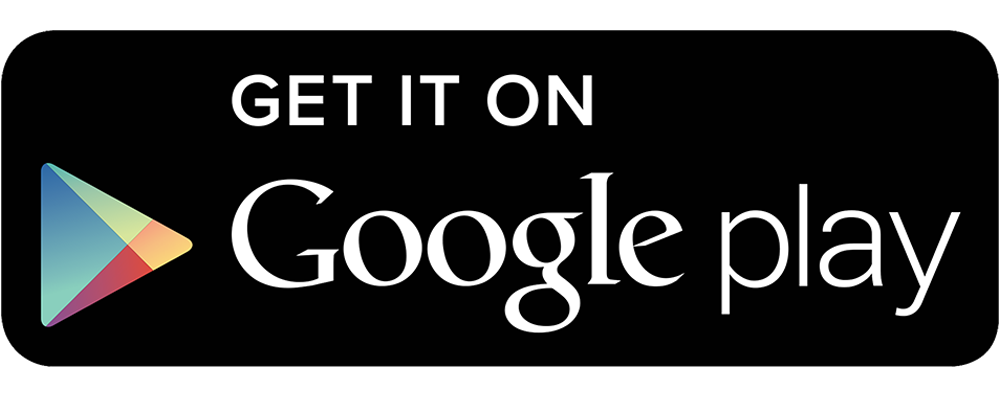
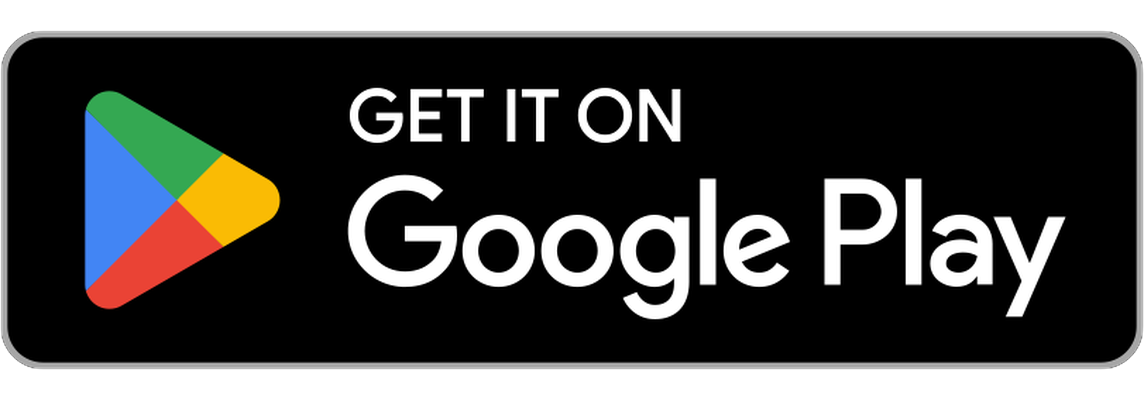
fix

Changed region(s): [[0.0, 0.06, 1.0, 0.93], [0.217, 0.18, 0.62, 0.36]]

diff --git a/src/components/Home/HeroArea.tsx b/src/components/Home/HeroArea.tsx
@@ -15,7 +15,7 @@ const DOWNLOAD_URL = "https://kazar.africa";
 
 const HeroArea: React.FC = () => {
 	return (
-		<section className="relative min-h-[calc(100dvh-80px)] pt-20 md:pt-10 lg:pt-0 flex items-center pb-12 overflow-hidden bg-gradient-to-br from-white via-blue-50/60 to-white dark:from-graydark dark:via-[#1a2535] dark:to-graydark">
+		<section className="relative min-h-[calc(100dvh-4rem)] pt-24 sm:pt-28 lg:pt-24 flex items-center pb-12 overflow-hidden bg-gradient-to-br from-white via-blue-50/60 to-white dark:from-graydark dark:via-[#1a2535] dark:to-graydark">
 			{/* Grid lines */}
 			<div
 				aria-hidden="true"
@@ -89,49 +89,55 @@ const HeroArea: React.FC = () => {
 						</div>
 
 						{/* App download links */}
-						<div className="mt-8 flex flex-col gap-5">
-							<div className="flex flex-wrap items-center justify-center lg:justify-start gap-3 sm:gap-4">
-								<a
-									href={DOWNLOAD_URL}
-									target="_blank"
-									rel="noopener noreferrer"
-									aria-label="Download on the App Store"
-									className="transition-transform duration-200 hover:scale-105"
-								>
-									<Image
-										src="/appstore.webp"
-										alt="Download on the App Store"
-										width={140}
-										height={42}
-										className="h-[42px] w-auto"
-									/>
-								</a>
-								<a
-									href={DOWNLOAD_URL}
-									target="_blank"
-									rel="noopener noreferrer"
-									aria-label="Get it on Google Play"
-									className="transition-transform duration-200 hover:scale-105"
-								>
-									<Image
-										src="/googleplay.png"
-										alt="Get it on Google Play"
-										width={140}
-										height={42}
-										className="h-[42px] w-auto"
-									/>
-								</a>
+						<div className="mt-8 flex flex-col gap-4">
+							{/* Badges + Open Web App: stacked on sm/md, one line on lg */}
+							<div className="flex flex-col lg:flex-row lg:items-center gap-4">
+								<div className="flex items-center justify-center lg:justify-start gap-3 sm:gap-4">
+									<a
+										href={DOWNLOAD_URL}
+										target="_blank"
+										rel="noopener noreferrer"
+										aria-label="Download on the App Store"
+										className="flex h-[48px] w-[160px] sm:h-[52px] sm:w-[174px] md:h-[56px] md:w-[188px] lg:h-[58px] lg:w-[194px] items-center justify-center transition-transform duration-200 hover:scale-105 flex-shrink-0"
+									>
+										<Image
+											src="/appstore.png"
+											alt="Download on the App Store"
+											width={194}
+											height={58}
+											className="h-full w-full object-contain"
+										/>
+									</a>
+									<a
+										href={DOWNLOAD_URL}
+										target="_blank"
+										rel="noopener noreferrer"
+										aria-label="Get it on Google Play"
+										className="flex h-[48px] w-[160px] sm:h-[52px] sm:w-[174px] md:h-[56px] md:w-[188px] lg:h-[58px] lg:w-[194px] items-center justify-center transition-transform duration-200 hover:scale-105 flex-shrink-0"
+									>
+										<Image
+											src="/googleplay.png"
+											alt="Get it on Google Play"
+											width={194}
+											height={58}
+											className="h-full w-full object-contain"
+										/>
+									</a>
+								</div>
 
-								<span className="hidden sm:block h-8 w-px bg-bodydark1/40 dark:bg-bodydark/20" />
+								{/* Divider - only shown when inline (lg) */}
+								<span className="hidden lg:block h-8 w-px bg-bodydark1/40 dark:bg-bodydark/20" />
 
-								<a
-									href={DOWNLOAD_URL}
-									target="_blank"
-									rel="noopener noreferrer"
-									className="text-sm sm:text-base font-semibold text-graydark dark:text-white underline decoration-meta-5 decoration-2 underline-offset-4 transition-colors hover:text-meta-5"
-								>
-									Open Web App
-								</a>
+								<div className="flex justify-center lg:justify-start">
+									<a
+										href={DOWNLOAD_URL}
+										target="_blank"
+										rel="noopener noreferrer"
+										className="text-sm sm:text-base font-semibold text-graydark dark:text-white underline decoration-meta-5 decoration-2 underline-offset-4 transition-colors hover:text-meta-5"
+									>
+										Open Web App
+									</a>
+								</div>
 							</div>
 
 							{/* QR code — mobile access */}
